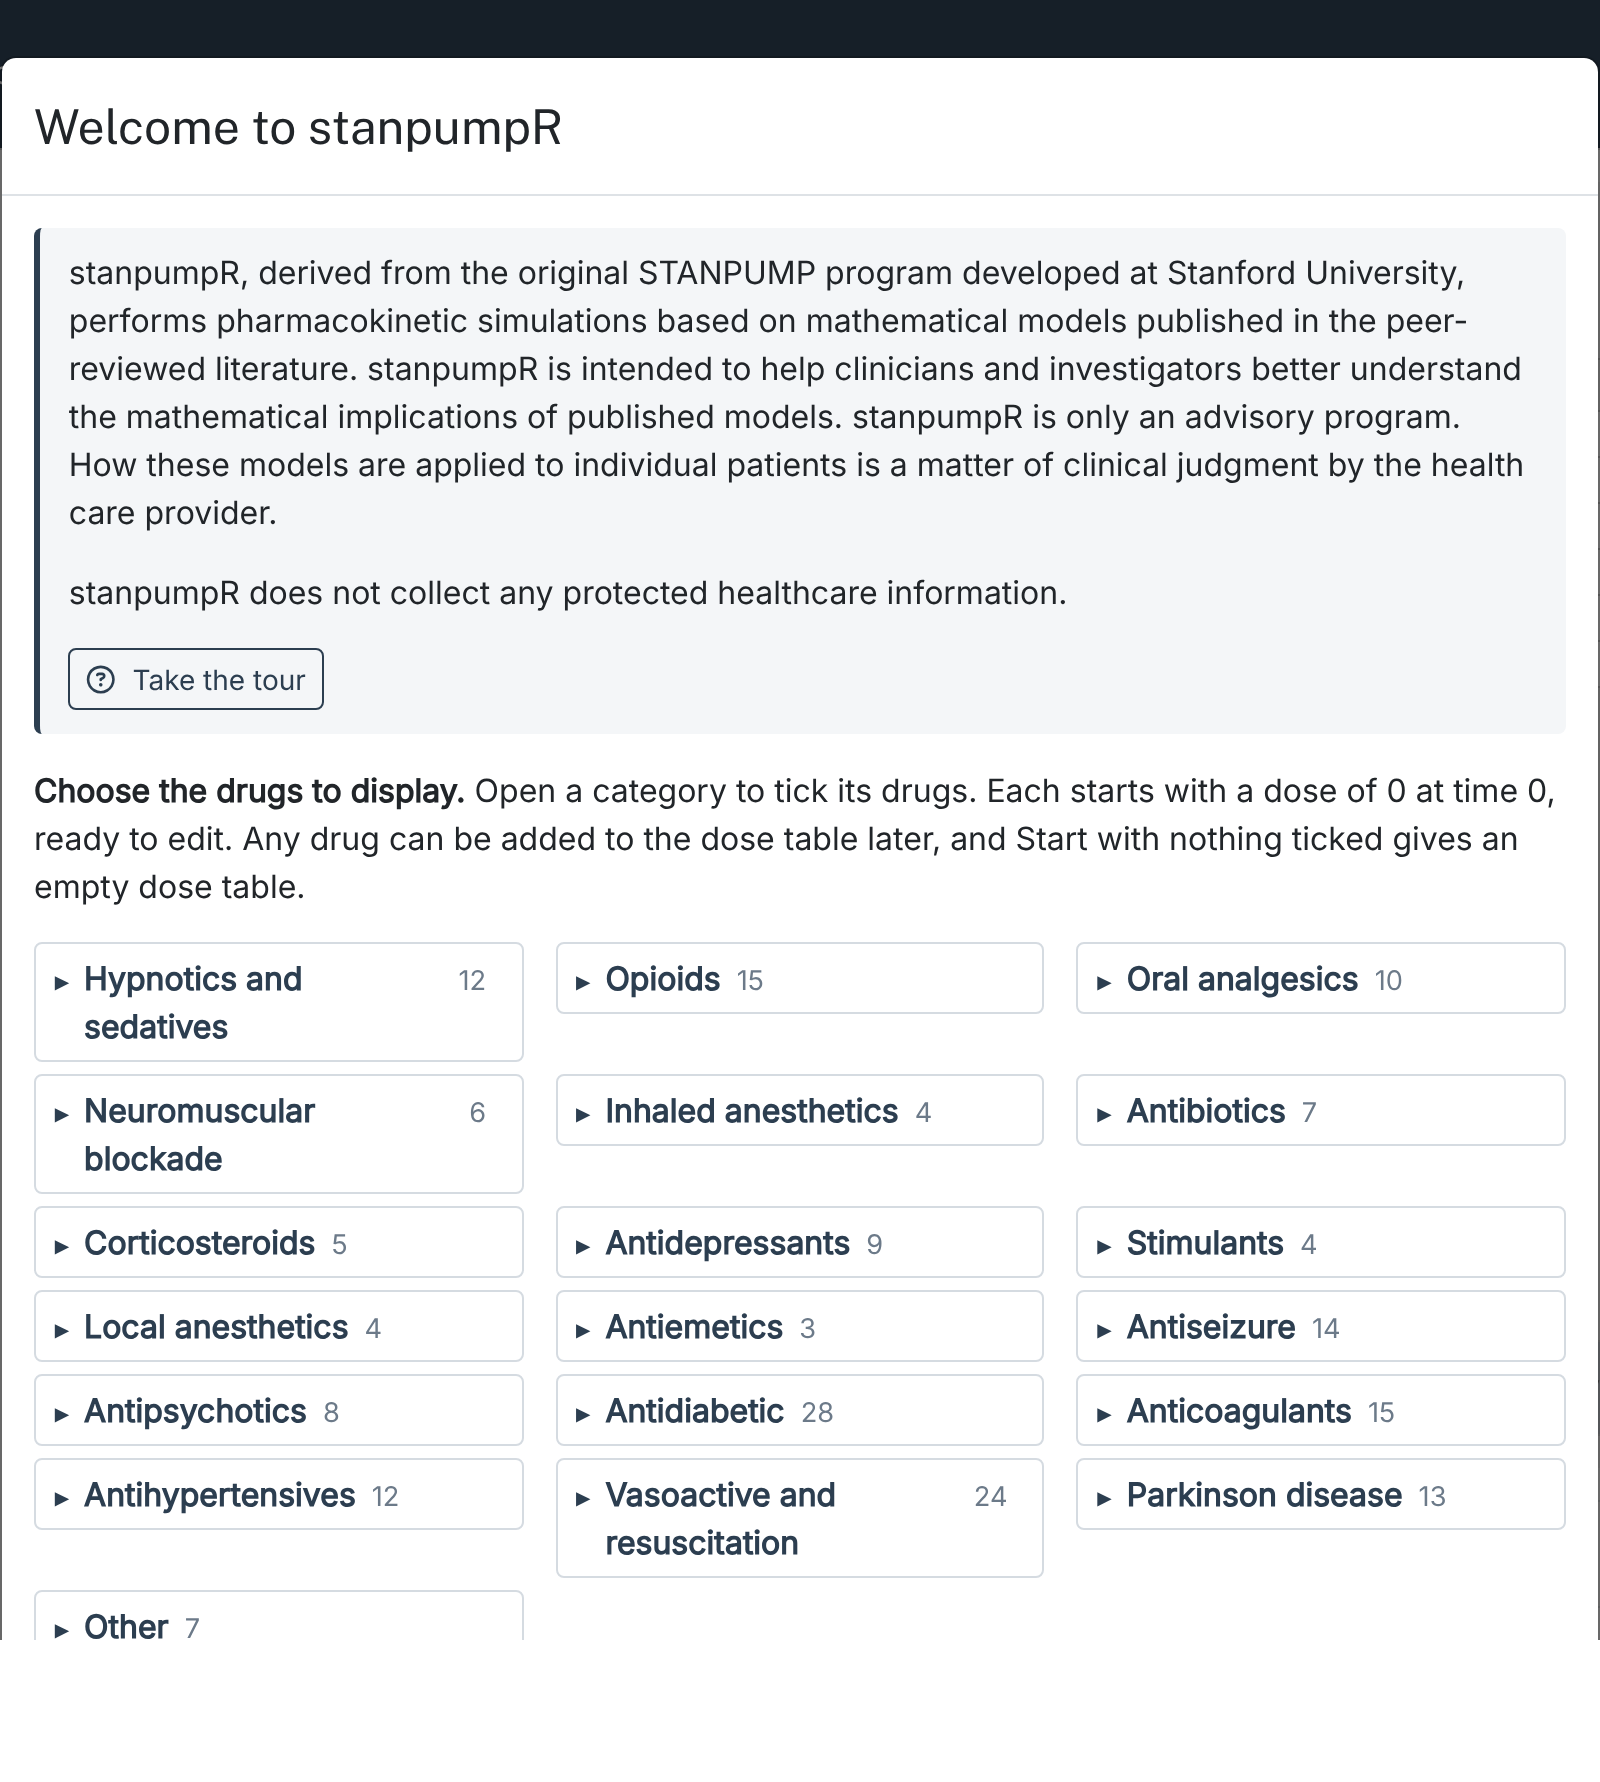
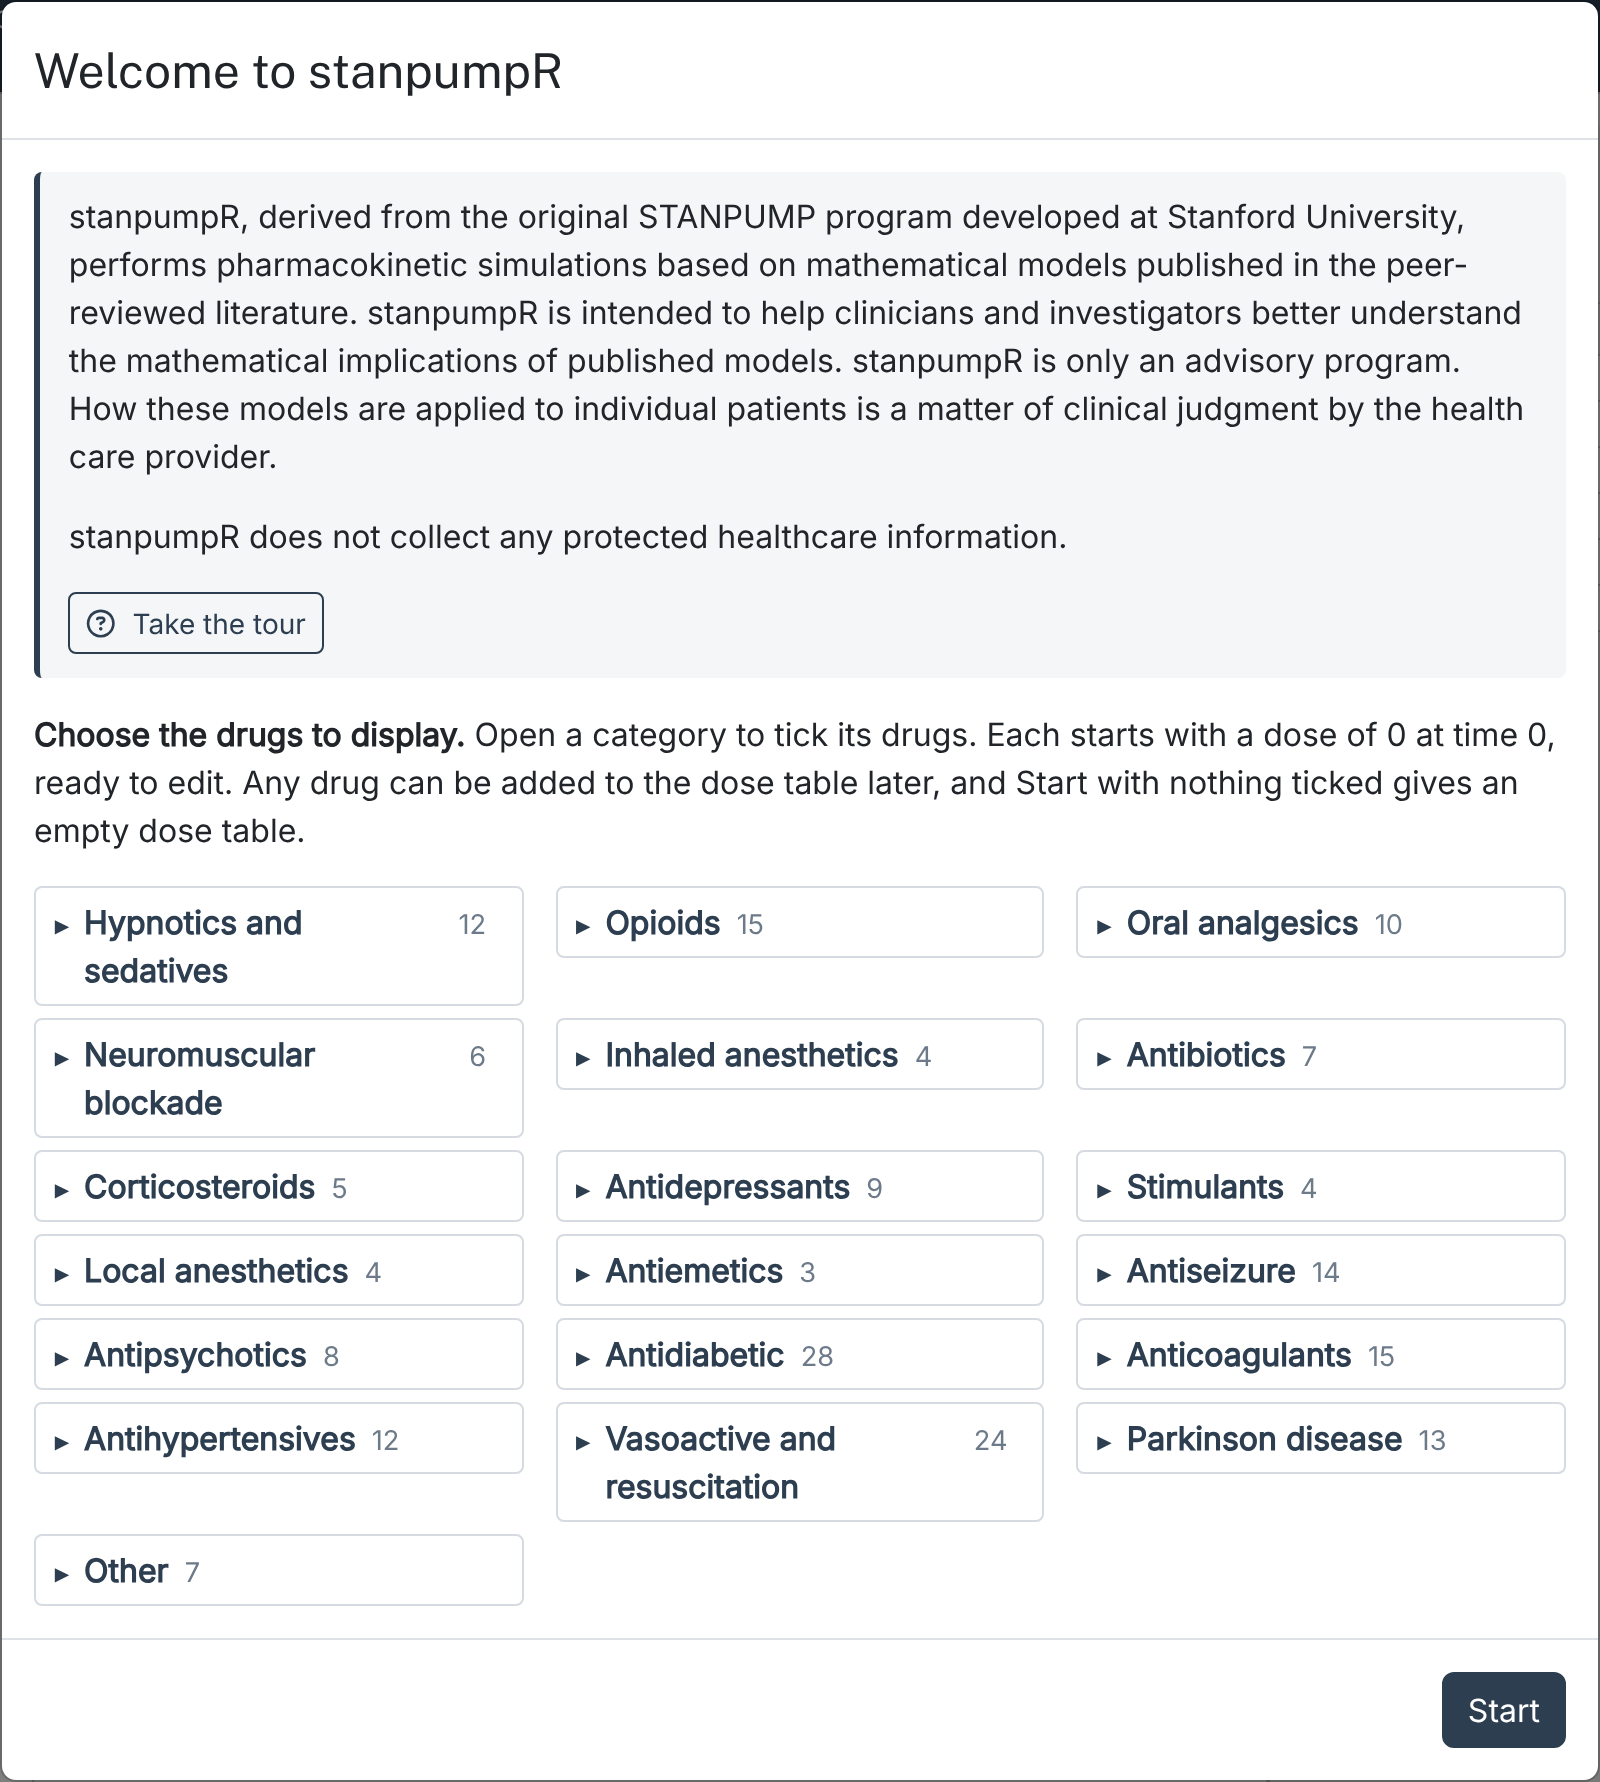
Tour: capture the whole welcome dialog; qualify opioid tolerance
CodeRabbit on #650: the 820-pixel window clipped the welcome modal below its
last category, losing the Start button the tour describes; the capture gets
its own taller window. And Opioid tolerance raises the MEAC only of the
opioids that have one, and of the metabolites codeine and tramadol form.

Claude-Session: https://claude.ai/code/session_0169csHpYd5QcSAiVDukRaVP

diff --git a/data-raw/help-screenshots.js b/data-raw/help-screenshots.js
@@ -54,9 +54,11 @@ async function openPanel(page, value) {
   const browser = await chromium.launch();
 
   // The opening dialog, as on a first visit (a fresh browser has no record
-  // of the weekly welcome).
+  // of the weekly welcome), in a window tall enough for the whole dialog:
+  // a shorter one scrolls it and cuts off the Start button.
   {
-    const page = await browser.newPage({ viewport: VIEWPORT, deviceScaleFactor: 2 });
+    const page = await browser.newPage({ viewport: { width: VIEWPORT.width, height: 1150 },
+                                          deviceScaleFactor: 2 });
     await page.goto(`${BASE}/`);
     const modal = page.locator('.modal-content');
     await modal.waitFor({ timeout: 60000 });

diff --git a/inst/help/quick-start.md b/inst/help/quick-start.md
@@ -25,7 +25,7 @@ Open **Patient Profile** in the left sidebar. Enter age, weight, height and sex.
 <figcaption>The Patient Profile panel for a 40-year-old man given propofol. Propofol reads none of the other fields, so only these are shown; a genotype, the serum creatinine or the baseline osmolality appears when a drug that reads it is in the dose table.</figcaption>
 </figure>
 
-*Adjust weight to fat-free mass* is on by default. The fields below it are shown only while a drug that reads them is in the dose table, and the question mark beside each names those drugs. *CYP 2D6* sets the metaboliser phenotype for the drugs with active metabolites, some antipsychotics and metoprolol; *CYP 2C19*, *CYP 2C9*, *CYP 2B6*, *VKORC1* and *CYP4F2* are read by the few drugs whose models depend on them. *Baseline serum osmolality* is read only by mannitol. *Serum creatinine* is optional and used by the drugs with a renal covariate; left blank, a normal value is assumed. *Pregnant*, shown for a woman of 12 to 59, applies the documented changes of late pregnancy to the drugs whose models have them. *Opioid tolerance*, shown while an opioid is dosed, raises each opioid's MEAC. See [Patient profile](help:patient-profile).
+*Adjust weight to fat-free mass* is on by default. The fields below it are shown only while a drug that reads them is in the dose table, and the question mark beside each names those drugs. *CYP 2D6* sets the metaboliser phenotype for the drugs with active metabolites, some antipsychotics and metoprolol; *CYP 2C19*, *CYP 2C9*, *CYP 2B6*, *VKORC1* and *CYP4F2* are read by the few drugs whose models depend on them. *Baseline serum osmolality* is read only by mannitol. *Serum creatinine* is optional and used by the drugs with a renal covariate; left blank, a normal value is assumed. *Pregnant*, shown for a woman of 12 to 59, applies the documented changes of late pregnancy to the drugs whose models have them. *Opioid tolerance*, shown while an opioid is dosed, raises the MEAC of every opioid that has one, including the active metabolites codeine and tramadol form (codeine, tramadol and buprenorphine have none of their own). See [Patient profile](help:patient-profile).
 
 ## 2. Enter the doses
 
